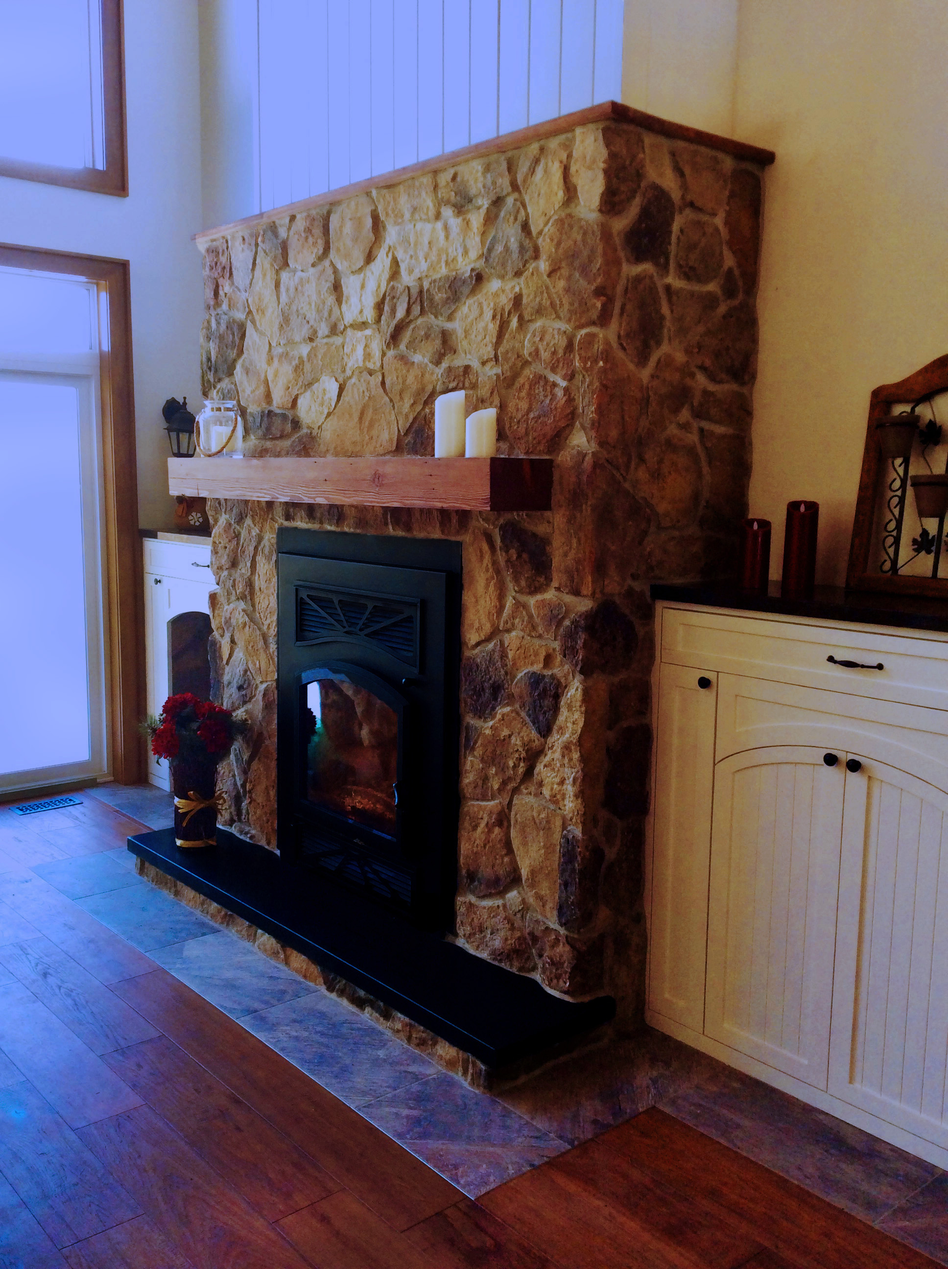
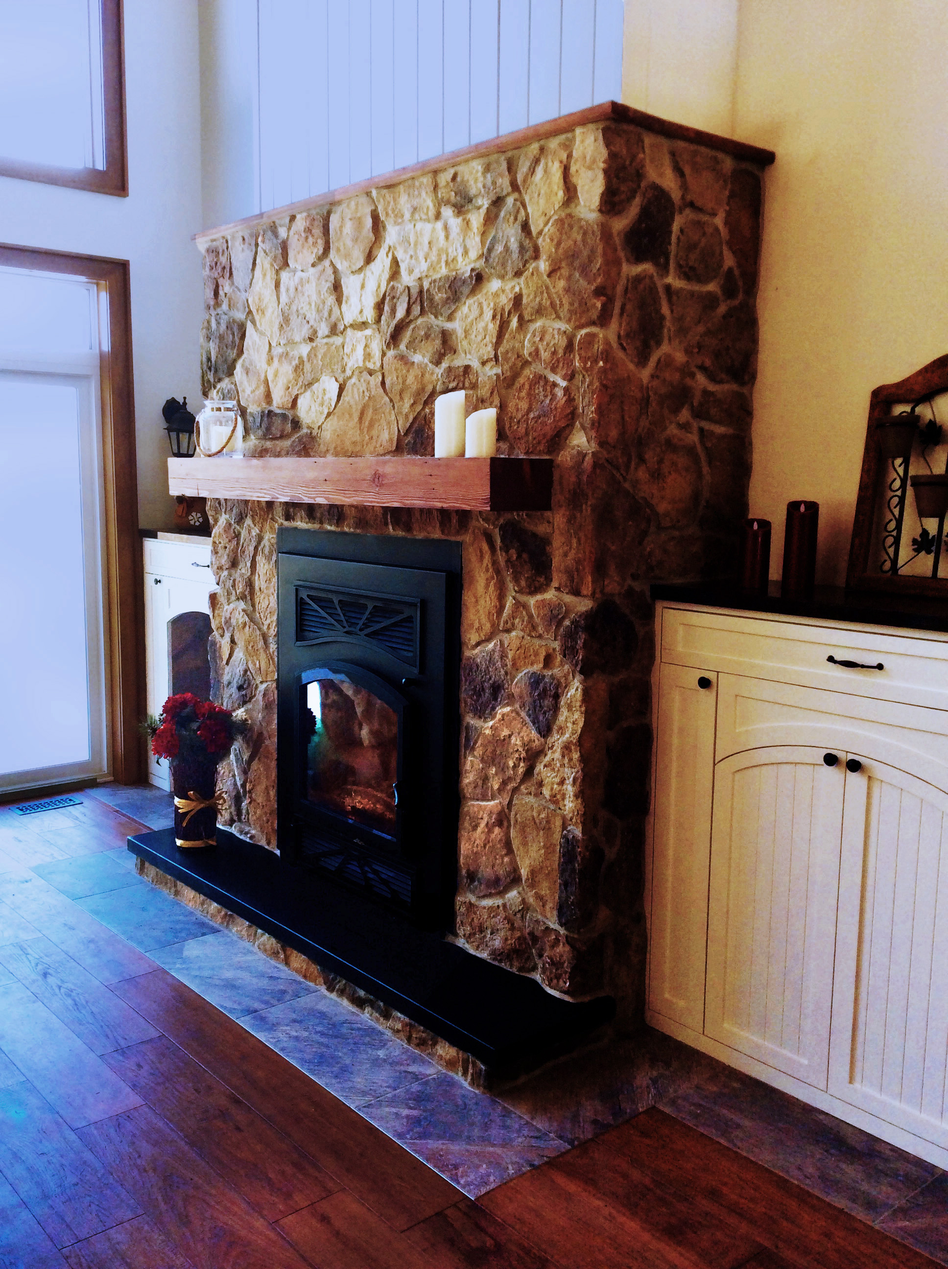
converted email setub to email.js library, rather than running off of node, other picture edits and code cleanup

diff --git a/my-app/src/components/contactForm/contactForm.js b/my-app/src/components/contactForm/contactForm.js
@@ -1,12 +1,12 @@
 import React, { useState} from "react";
 import './contactForm.css'
 
+import emailjs from 'emailjs-com';
+
 import { toast } from 'react-toastify';
 import 'react-toastify/dist/ReactToastify.css';
-
 toast.configure();
 
-const axios = require('axios')
 
 function ContactForm(){
 
@@ -15,8 +15,8 @@ function ContactForm(){
     const [ phone, setPhone ] = useState('');
     const [ message, setMessage ] = useState('');
 
-    async function sendEmail(){
-        console.log( 'sending email ');
+    async function sendEmail(e){
+        console.log( 'sending  ', name, mail, phone );
         const newEmail = {
             name: name,
             email: mail, 
@@ -31,19 +31,20 @@ function ContactForm(){
         } else if ( message === ''){
             toast.error('Please Enter A Message', {position: toast.POSITION.TOP_CENTER})
         } else {
-            const response = await axios.post('http://localhost:5000/api/sendEmail', newEmail );
-            console.log('sendign email:', response)
-            if ( response.data === 'success'){
-                toast.success('Email Sent!', {position: toast.POSITION.TOP_CENTER});
-                setName('');
-                setEmail('');
-                setPhone('');
-                setMessage('');
-            } else if ( response.data ==='error'){
-                toast.error('There was an error sending your message', {position: toast.POSITION.TOP_CENTER})
-            }
-        }
 
+            emailjs.sendForm('gmail', 'BernardBuild_ContactForm', e.target, 'user_qLGy80gNbSYdGoYUnPr2A')
+            .then((result) => {
+                console.log(result.text);
+            }, (error) => {
+                console.log(error.text);
+            });
+        }
+        toast.success('Email Sent!', {position: toast.POSITION.TOP_CENTER});
+        setName('');
+        setEmail('');
+        setPhone('');
+        setMessage('');
+        e.target.reset();
     }
     
 
@@ -51,13 +52,15 @@ function ContactForm(){
         <div id='contact'>
             <p id='contactTitle'>Contact Us</p>
             <p id='contactDes'>We look forward to hearing from you!</p>
-            <div id='contactForm'>
-                <input class='contactInput row' type='text' placeholder='Name*' value={name} onChange={e => setName( e.target.value )}></input>
-                <input class='contactInput row' type='text' placeholder='Email*' value={mail} onChange={e => setEmail( e.target.value )}></input>
-                <input class='contactInput row' type='text' placeholder='Phone' value={phone} onChange={e => setPhone( e.target.value )}></input>
-                <textarea class='contactInput row'  type='text' placeholder='Message*'  value={message} rows='4' onChange={e => setMessage( e.target.value )}></textarea>
-                <button id='contactBtn' onClick={e => sendEmail()}>SEND</button>
-            </div>
+
+            <form id='contactForm' onSubmit={sendEmail}>
+                <input class='contactInput row' type='text' placeholder='Name*' name="name" onChange={e => setName(e.target.value)}></input>
+                <input class='contactInput row' type='email' placeholder='Email*' name="email" onChange={e => setEmail(e.target.value)}></input>
+                <input class='contactInput row' type='text' placeholder='Phone' name="phone" onChange={e => setPhone(e.target.value)}></input>
+                <textarea class='contactInput row'  type='text' placeholder='Message*' name="message" rows='4' onChange={e => setMessage(e.target.value)}></textarea>
+                <input id='contactBtn' type='submit' value='SEND'></input>
+            </form>
+
             <div id='contactInfo'>
                 <p id='infoTitle'> Bernard Design Build</p>
                 <p id='infoDes'>
@@ -66,9 +69,8 @@ function ContactForm(){
                     <br/>(705) 888-0059
                 </p>
             </div>
-            
-
         </div>
     )
 }
+
 export default ContactForm;

diff --git a/my-app/src/components/gallery/Gallery.js b/my-app/src/components/gallery/Gallery.js
@@ -10,14 +10,8 @@ import miscPic from './assets/MiscPic.jpg';
 import outdoorPic from './assets/OutdoorPic.jpeg';
 
 
-import bath2 from './assets/bathroom/bath2.jpg';
-import bath3 from './assets/bathroom/bath3.jpg';
-import bath4 from './assets/bathroom/bath4.JPG';
-import bath5 from './assets/bathroom/bath5.JPG';
-
 import instaIcon from './assets/BDBinstagramIcon.png';
 
-// import  from 'https://www.lonestarpark.com/wp-content/uploads/2019/04/image--500x500.jpg'
 
 
 function Gallery (props){
@@ -29,30 +23,6 @@ function Gallery (props){
     const [ miscStyle, setMiscStyle ] = useState({ backgroundImage: `url(${miscPic})`});
     const [ outdoorStyle, setOutdoorStyle ] = useState({ backgroundImage: `url(${outdoorPic})`});
 
-    // function bathroomSlideshow (){
-    //     console.log('mouse is over bathroom');
-    //     setBathroomStyle( {backgroundImage: `url(${bath2})`})
-    //     // e.target.style.backgroundImage = `url(${bath2})`;
-    //     setTimeout( () =>{
-    //         setBathroomStyle({ backgroundImage: `url(${bath2})`});
-    //     },500);
-    //     setTimeout( () =>{
-    //         setBathroomStyle({ backgroundImage: `url(${bath3})`});
-    //     },1000);
-    //     setTimeout( () =>{
-    //         setBathroomStyle({ backgroundImage: `url(${bath4})`});
-    //     },1500);
-    //     setTimeout( () =>{
-    //         setBathroomStyle({ backgroundImage: `url(${bath5})`});
-    //     },2000);
-    //     setTimeout( () =>{
-    //         setBathroomStyle({ backgroundImage: `url(${bathroomPic})`});
-    //     },2500);
-        
-    // }
-    // function restoreBathroom(){
-    //     setBathroomStyle( { backgroundImage: `url(${bathroomPic})`})
-    // }
 
     return(  
         <div id='gallery'>
@@ -74,7 +44,7 @@ function Gallery (props){
                     <div class=' col-sm-6 col-md-4'>
                         <Link to="/gallery/fireplace" >
                             <div class='galleryCard' onClick={e => props.setState(1)}>
-                                <div id='fireplaceCard' class='cardPic' style={flooringStyle} >
+                                <div id='fireplaceCard' class='cardPic' style={fireplaceStyle} >
                                     
                                 </div>
                                 <p class='cardTitle'>
@@ -86,7 +56,7 @@ function Gallery (props){
                     <div class='col-sm-6 col-md-4'>
                         <Link to="/gallery/flooring" >
                             <div class='galleryCard'  onClick={e => props.setState(2)}>
-                                <div id='flooringCard' class='cardPic' style={fireplaceStyle}>
+                                <div id='flooringCard' class='cardPic' style={flooringStyle}>
                                    
                                 </div>
                                 <p class='cardTitle'>
